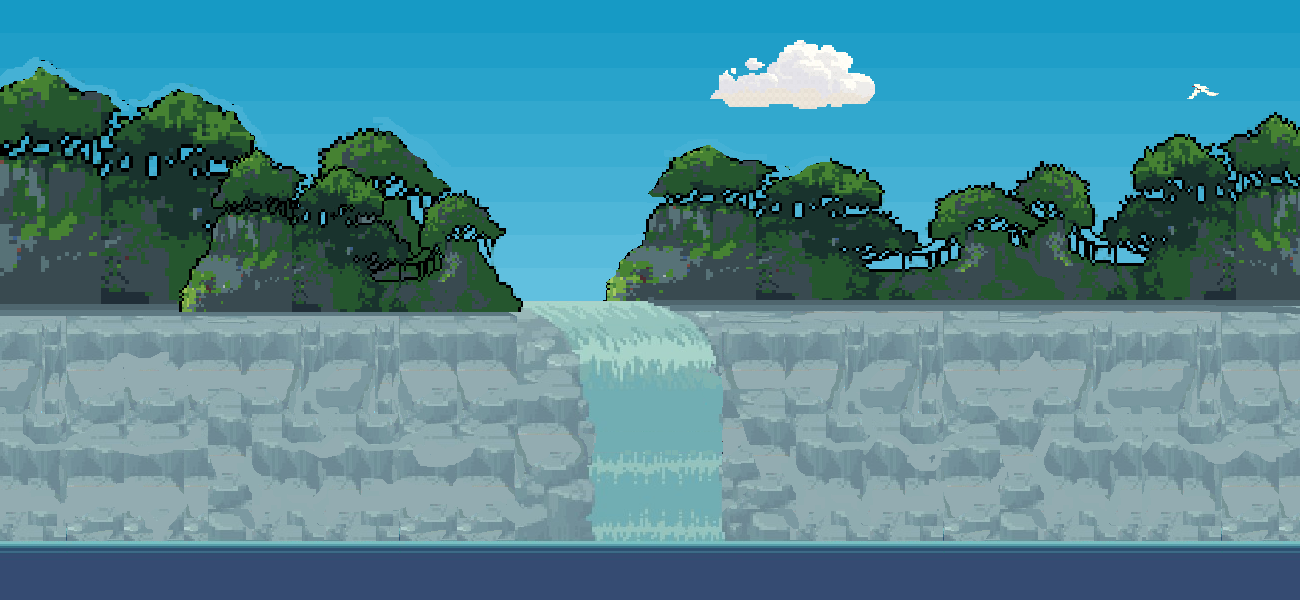
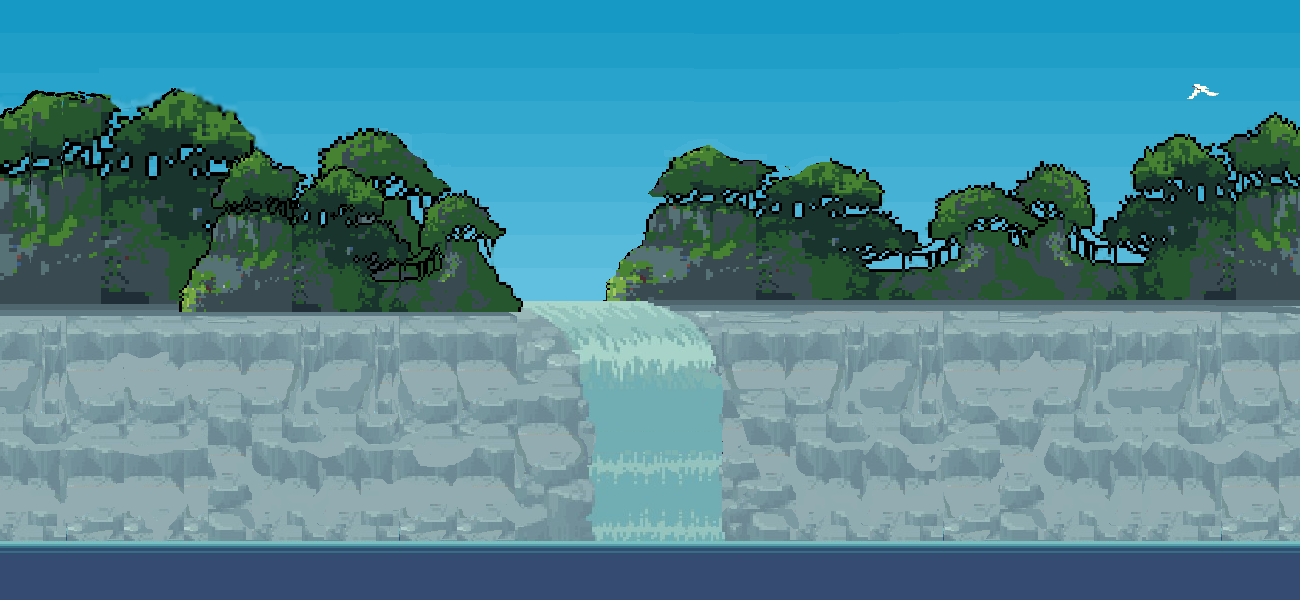
scene0update

Changed region(s): [[0.0, 0.09, 0.1846, 0.48], [0.5538, 0.06, 0.6769, 0.18]]

diff --git a/js/scene.js b/js/scene.js
@@ -26,33 +26,36 @@ const Scene0 = new Phaser.Class({
     preload :function()
 {   
     // 加载图片 例如设置sky为图片id，后面可直接使用sky代表图片
-    this.load.image('sky', 'assets/assets/back/sky1.png');
-    this.load.image('ground', 'assets/assets/board/prisonboard.png');
+    this.load.image('sky', sky1);
+    this.load.image('ground', stoneboard1);
  
-    this.load.image('cloud1', cloud1);
+    this.load.image('cloud1', cloud3);
 
-    this.load.image('moon','assets/assets/decoration/moon1.png')
+    // this.load.image('moon','assets/assets/decoration/moon1.png')
     // this.load.image('wall','assets/assets/decoration/nightwall2.png')
-    this.load.image('house','assets/assets/decoration/house4.png')
+    this.load.image('house1',house1)
+    this.load.image('house2',house2)
     this.load.spritesheet('dude', 'assets/assets/charactor/shusheng.png', { frameWidth: 32, frameHeight: 45 });
 },
 create ()
 {       
     // 设置游戏总界限，不同于画面大小
-    this.cameras.main.setBounds(0, 0, 800 * 2, 600 );
-    this.physics.world.setBounds(0, 0, 800 * 2, 600 );
+    this.cameras.main.setBounds(0, 0, 1000*2, 600 );
+    this.physics.world.setBounds(0, 0, 1000*2, 600 );
 
     // 开启另一'game1'场景
     //  this.scene.start(game1);
 
     // 在x=0,y=0位置放置图片     设置图片原点为0,0,否则默认为中心点
     // this.sound.play('bgmusic');
-    var skry=this.add.image(0, 0, 'sky').setOrigin(0, 0);
-    this.add.image(800, 0, 'sky').setOrigin(0, 0).setFlipX(true);
-    this.add.image(100,100,'moon').setScale(0.5).setOrigin(0,0).setScrollFactor(0.5,1);
-    this.add.image(100,100,'cloud1').setScale(0.5).setOrigin(0,0).setScrollFactor(0,1);
-    this.add.image(300,100,'cloud1').setScale(0.5).setOrigin(0,0).setScrollFactor(0,1);
-    
+    //setFlipX()用于水平反转图片，默认为false
+    //setFlipY()垂直翻转
+    var sky=this.add.image(0, 0, 'sky').setOrigin(0, 0);
+    this.add.image(1300, 0, 'sky').setOrigin(0, 0).setFlipX(false);
+    // this.add.image(100,100,'moon').setScale(0.5).setOrigin(0,0).setScrollFactor(0.5,1);
+    this.add.image(100,20,'cloud1').setScale(0.2).setOrigin(0,0).setScrollFactor(0.1,1);
+    this.add.image(300,40,'cloud1').setScale(0.2).setOrigin(0,0).setScrollFactor(0.1,1);
+
 //    var tween = this.tweens.add({
 //         targets: skry,
 //         alpha: 0.1,
@@ -69,8 +72,9 @@ create ()
     platforms = this.physics.add.staticGroup();
     // 创建一个平台,放在x=0，y=555处 以ground为背景，宽度扩大3倍。
     // setDisplaySize(1000,45)和setScale(2,1)都会拉伸失真
-    platforms.create(0, 510, 'ground').setScale(2,2).setOrigin(0, 0).refreshBody();
-    platforms.create(599, 510, 'ground').setScale(2,2).setOrigin(0, 0).refreshBody();
+    platforms.create(-400, 450, 'ground').setScale(2,2).setOrigin(0, 0).refreshBody();
+    platforms.create(1200, 450, 'ground').setScale(2,2).setOrigin(0, 0).refreshBody();
+    this.add.image(800,223,'house1').setOrigin(0,0).setFlipX(true);
     
     // 增加一个精灵，即主角
     player = this.physics.add.sprite(100, 350, 'dude').setScale(1.5).setOrigin(0, 0);
@@ -130,8 +134,8 @@ create ()
     });
 
     
-    ryu = this.add.sprite(100, 350).play('right','true');
-
+    ryu = this.add.sprite(100, 350);
+    //ryu = this.add.sprite(100, 350); .play('right','true')
     tween = this.tweens.add({
         
             targets: ryu.anims,
@@ -166,11 +170,11 @@ create ()
         child.setBounceY(Phaser.Math.FloatBetween(0.4, 0.8));
 
     });
-    // stars.children.iterate(function (child) {
-    //     // 设置Y方向的弹性值,为0.4-0.8的随机数
-    //     child.disableBody(true, true);
+    stars.children.iterate(function (child) {
+        // 设置Y方向的弹性值,为0.4-0.8的随机数
+        child.disableBody(true, true);
 
-    // });
+    });
     
 
     bombs = this.physics.add.group();
@@ -212,12 +216,12 @@ create ()
 
 update ()
 {   
-    if(ryu.x>600){
-        ryu.stop();
-    }
-    else{
-        ryu.x+=2;
-    }
+    // if(ryu.x>600){
+    //     ryu.stop();
+    // }
+    // else{
+    //     ryu.x+=2;
+    // }
 
     // if (tween.isPlaying())
     // {   
@@ -241,7 +245,7 @@ update ()
         player.anims.play('left', true);
         direction="left";
         // 可以理解为变身
-        player.setTexture('moon');
+        // player.setTexture('moon');
 
         console.log(player)
 

diff --git a/js/index.js b/js/index.js
@@ -6,7 +6,7 @@ var config = {
     Extends: Phaser.Scene,
     // parent:"game",
     type: Phaser.AUTO,
-    width: 800,
+    width: 1000,
     height: 600,
     physics: { 
         default: 'arcade',
